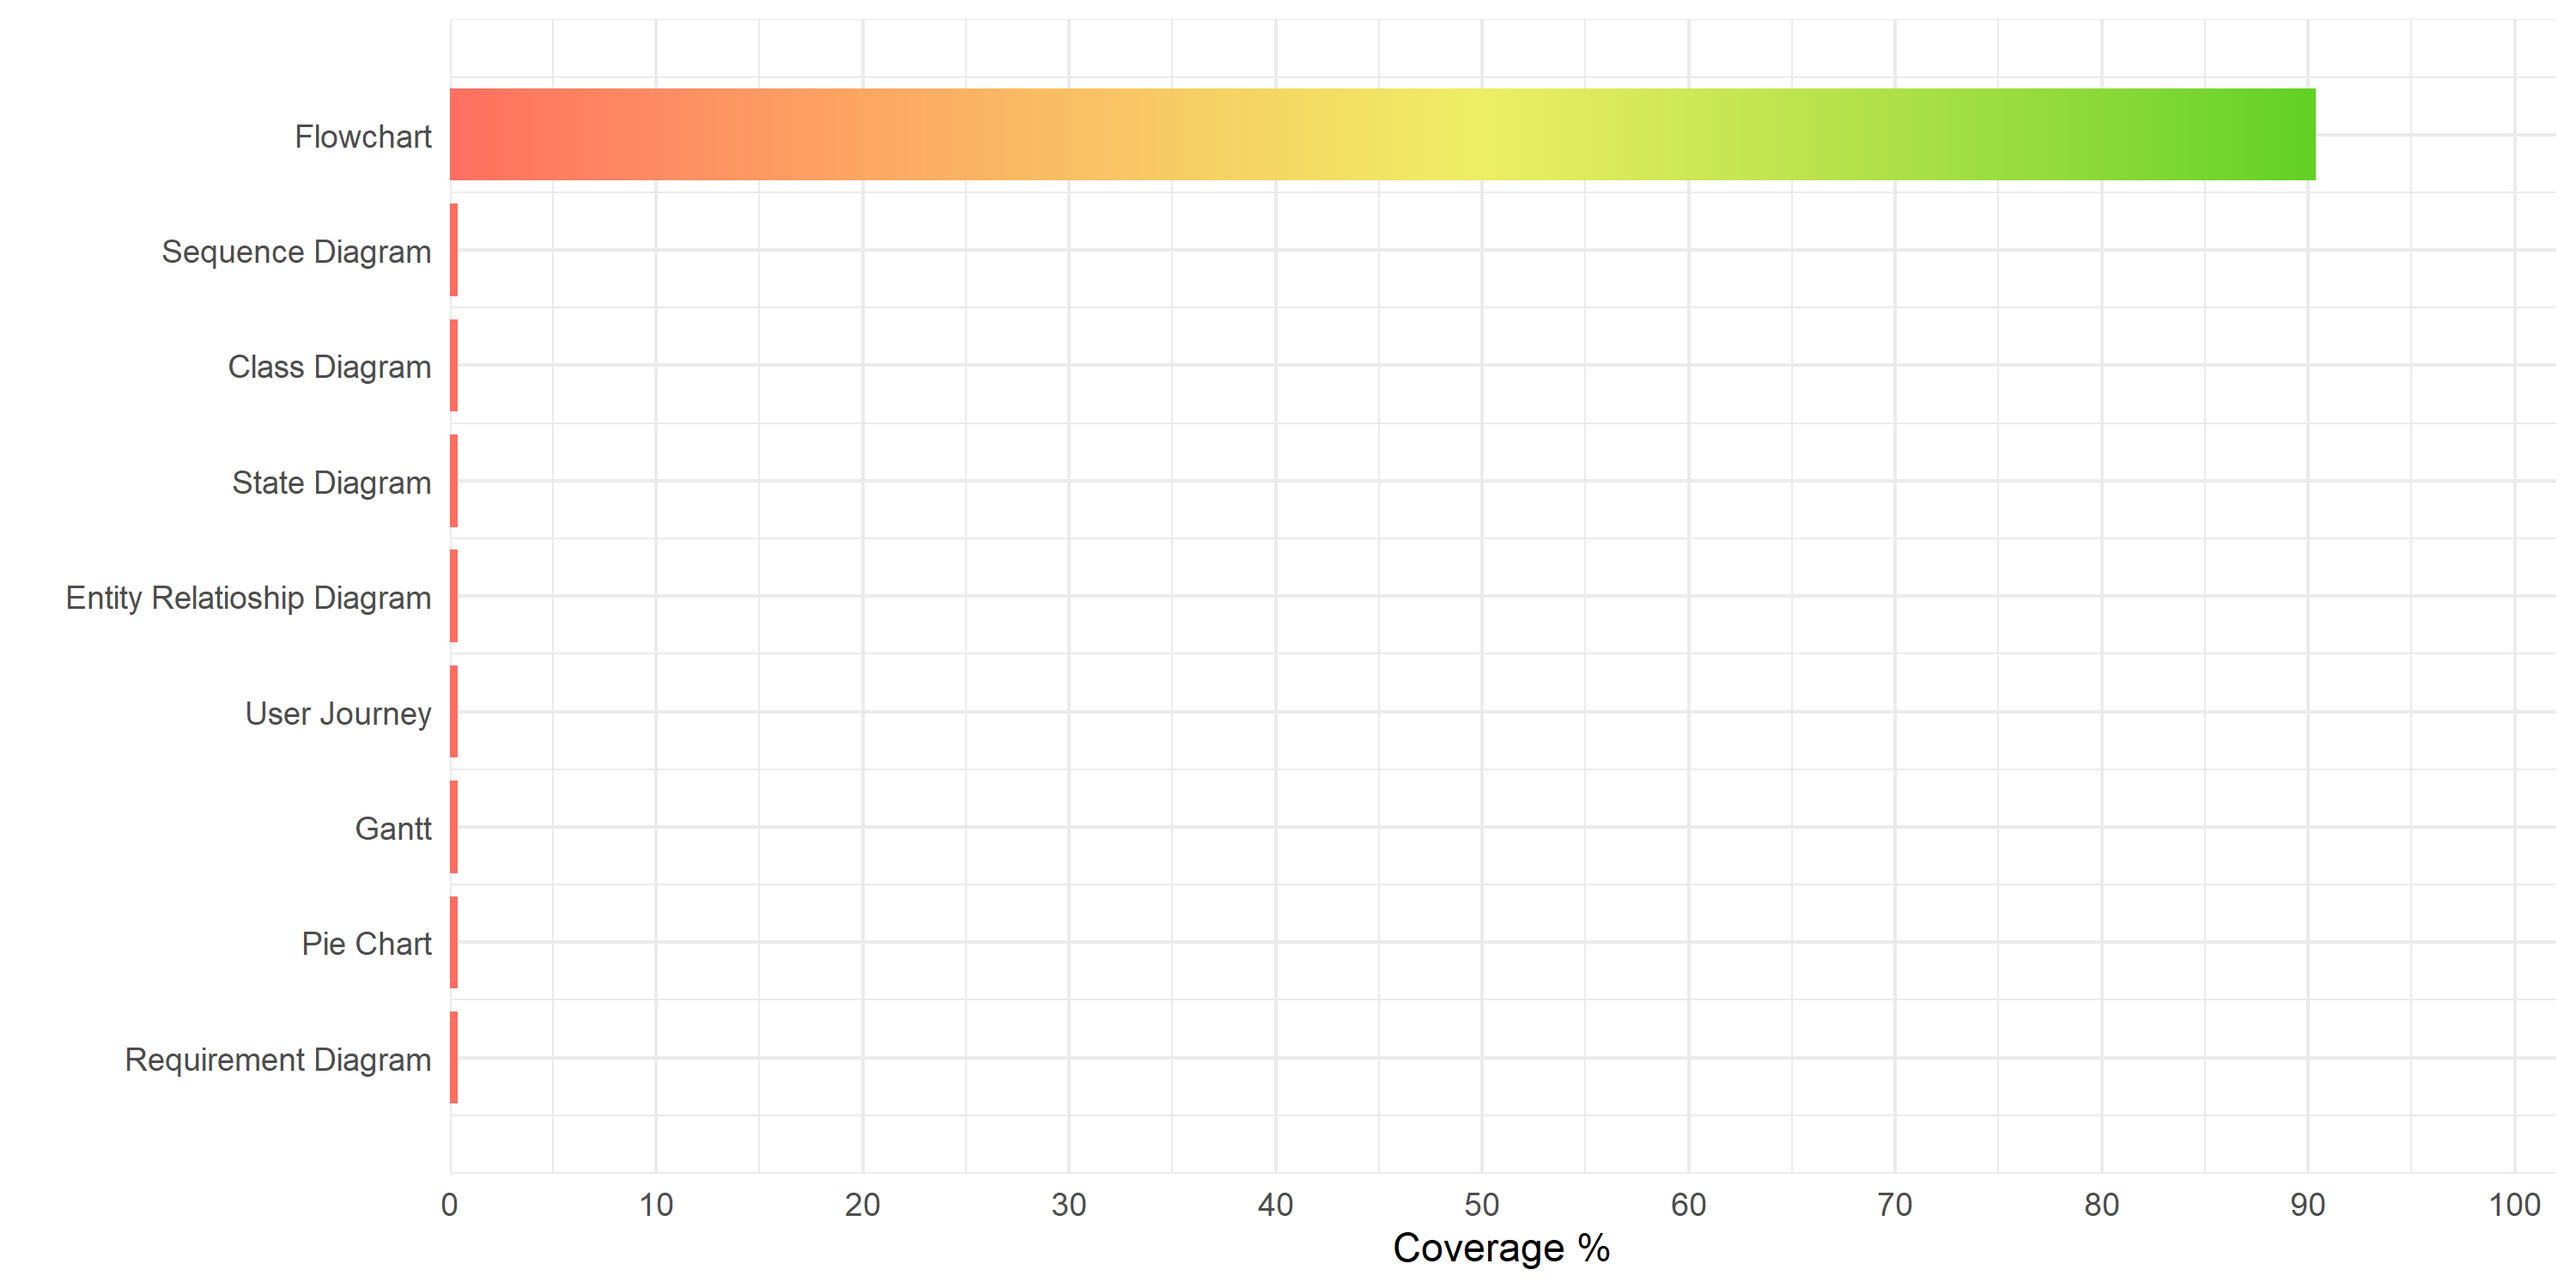
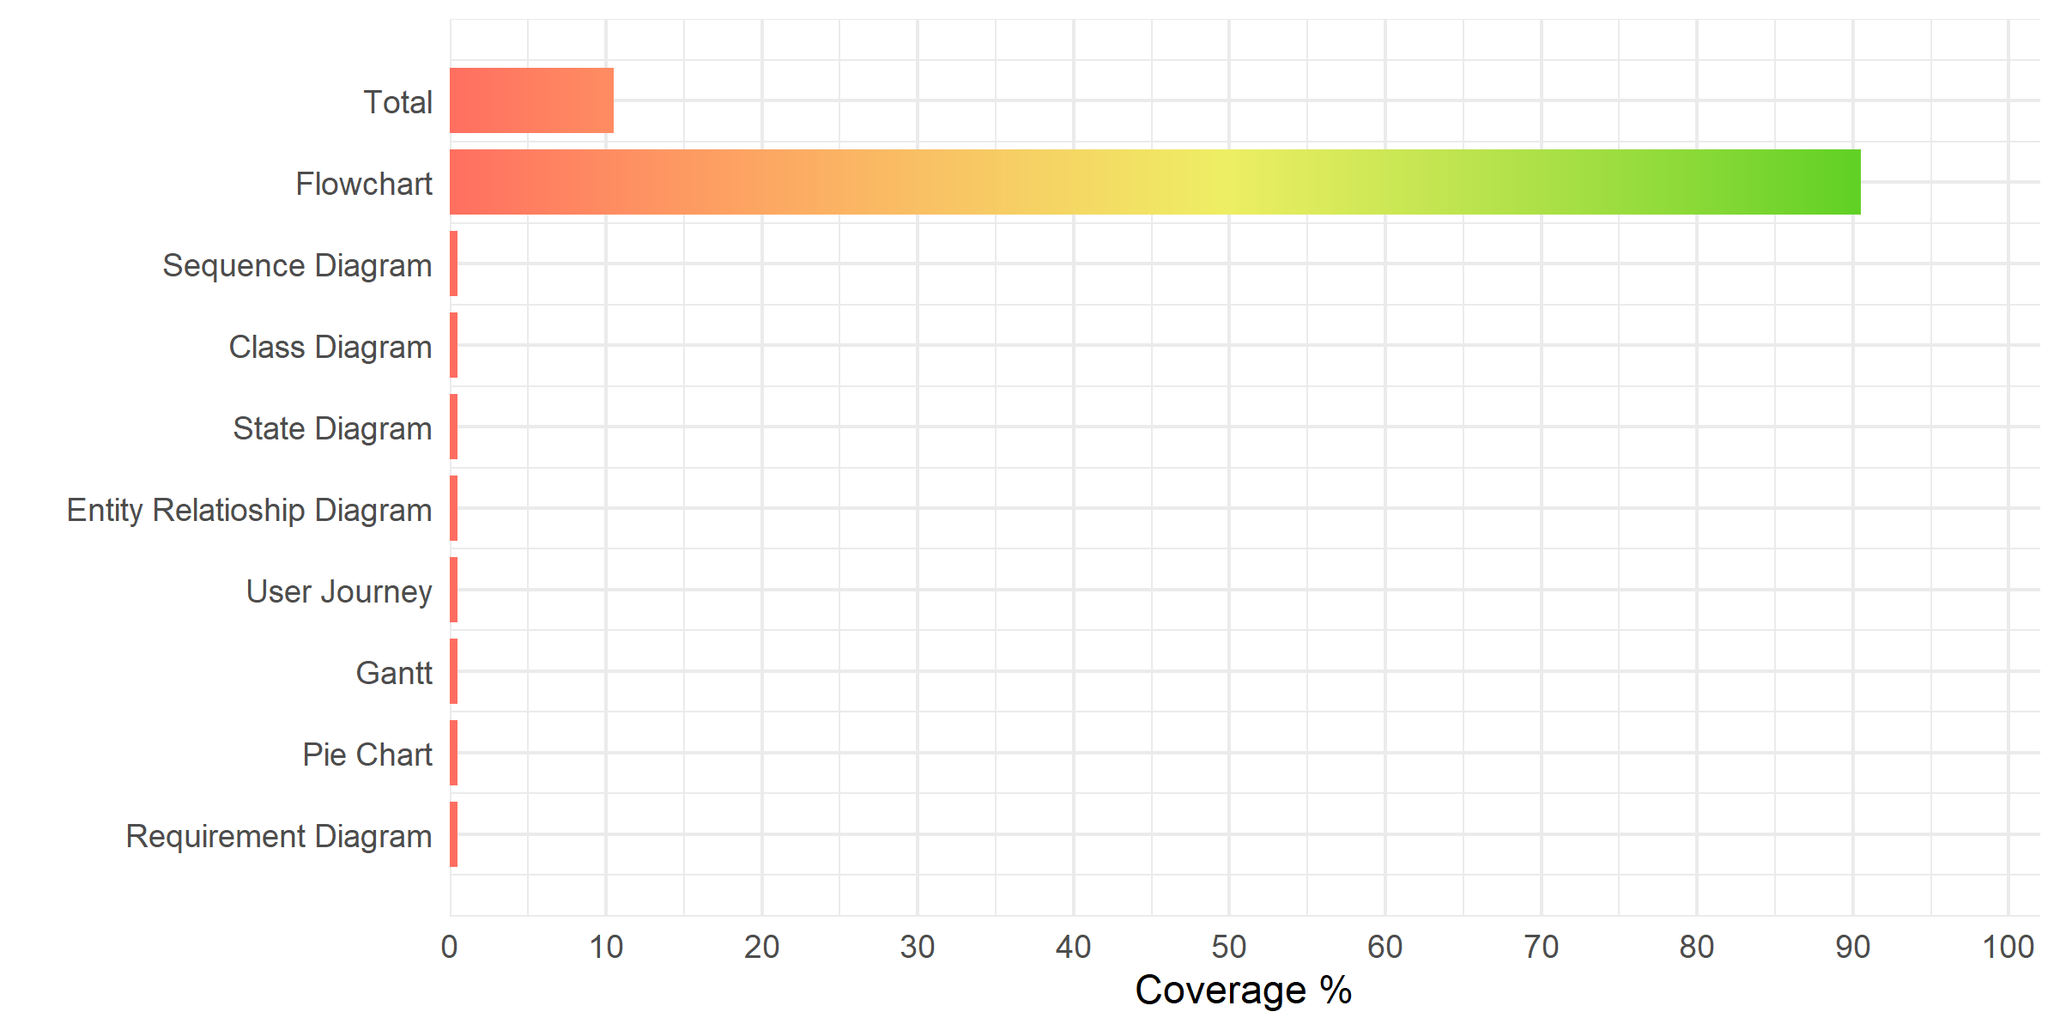
Small info updates
Added "Total" tab on the graph and updated some variables inside __init__.py file

diff --git a/PyMermaid/__init__.py b/PyMermaid/__init__.py
@@ -1,1 +1,4 @@
-version="1.0"
+version="0.0.9"
+
+author="Quattro"
+myGithub="https://github.com/QuattroMusic"
